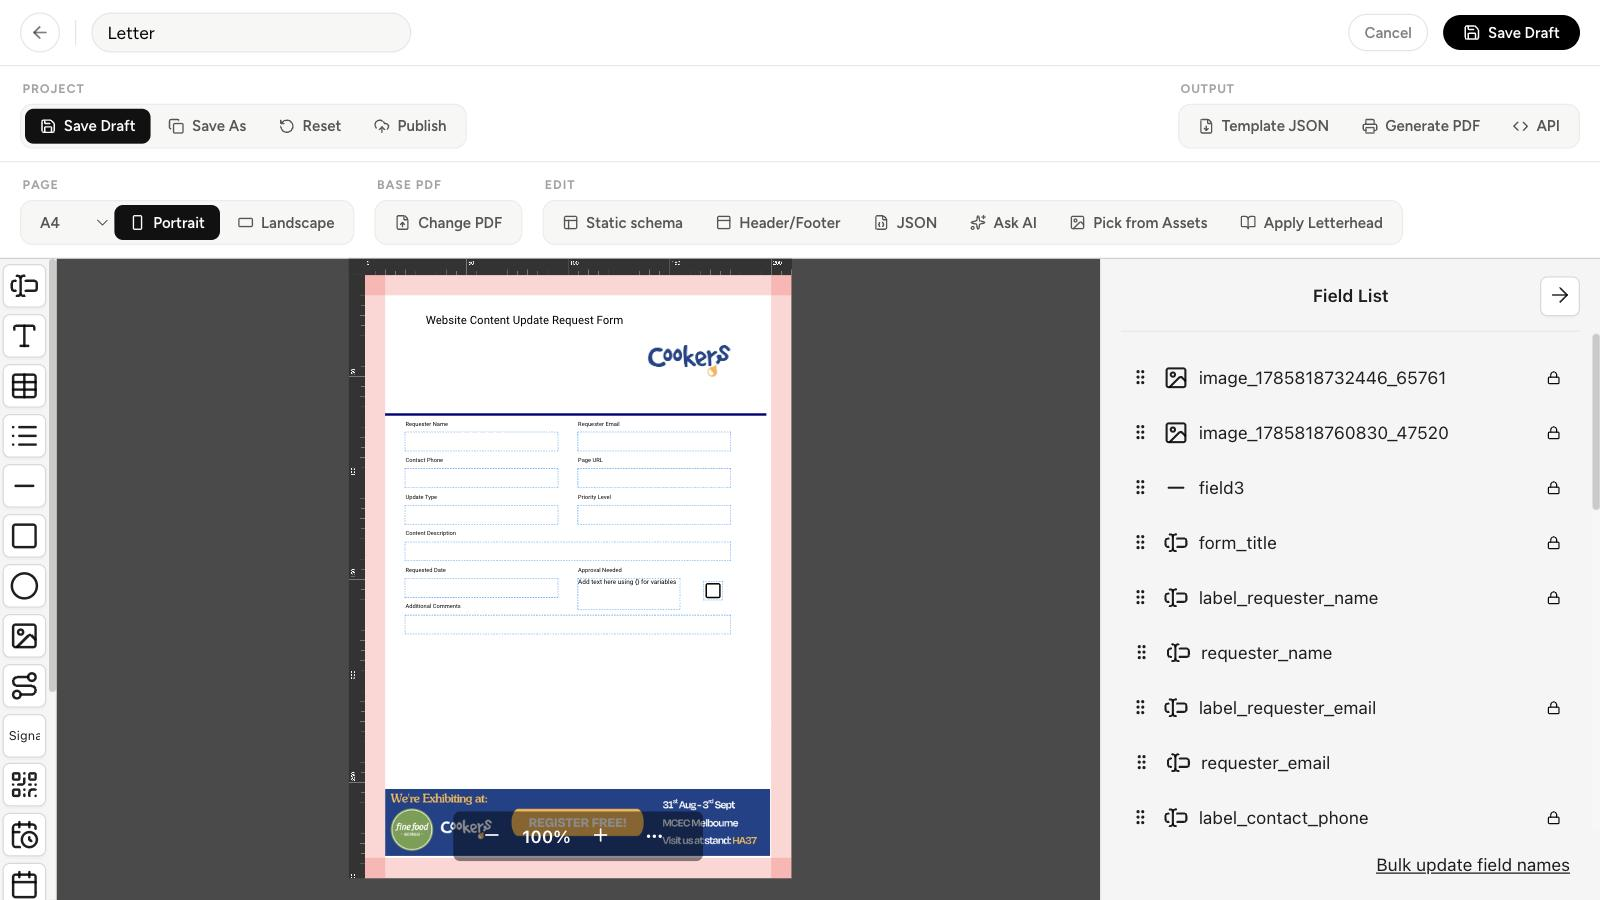
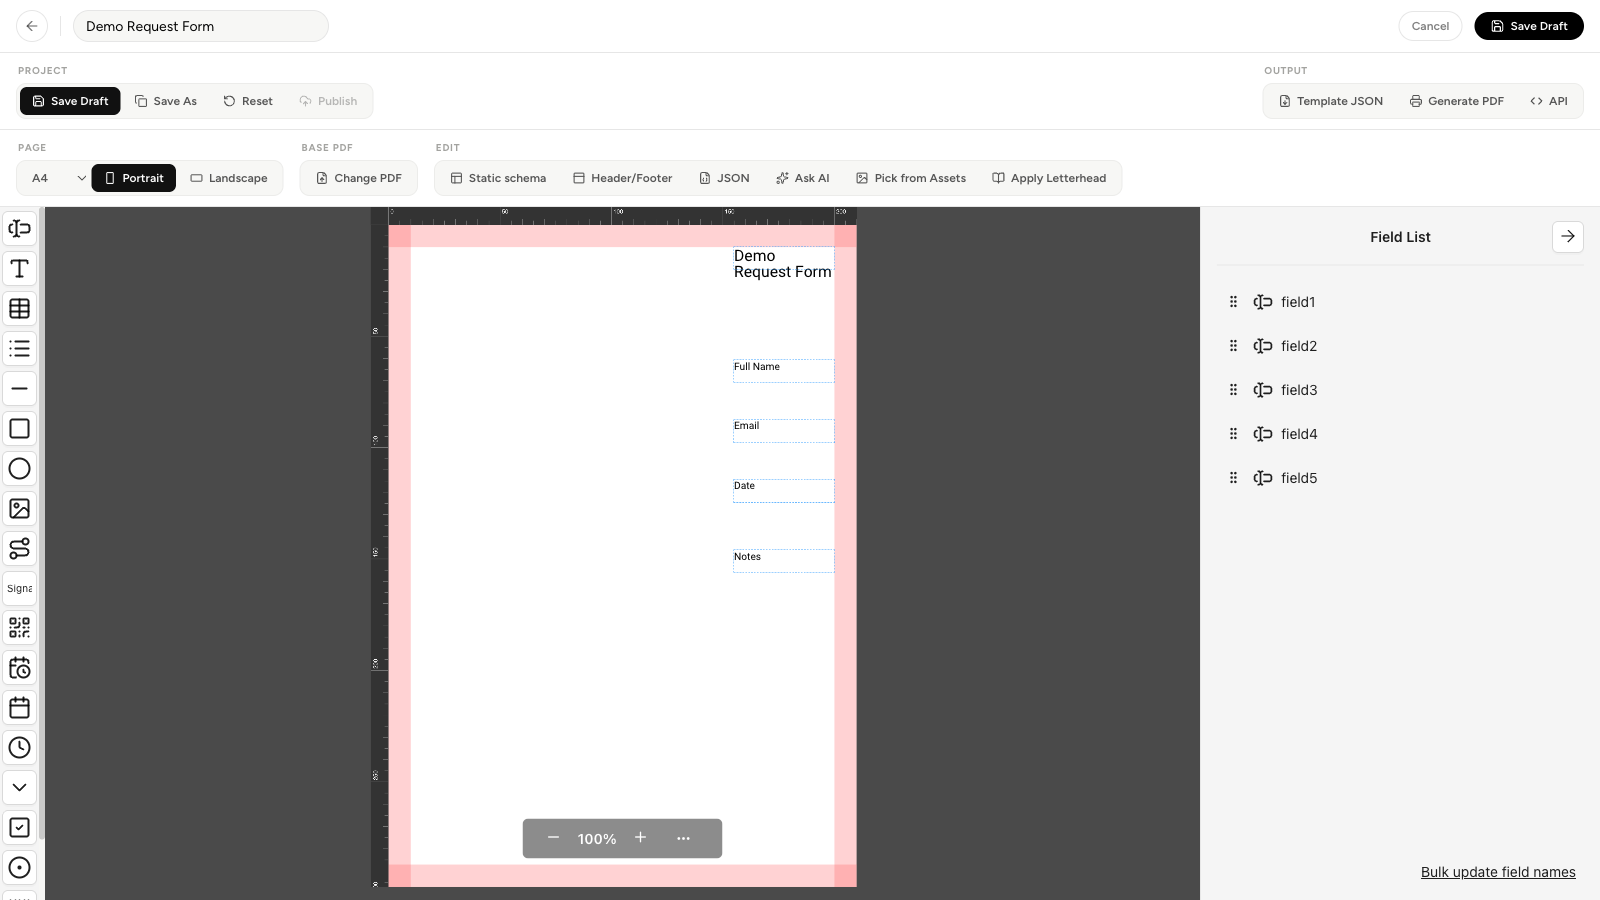
fix(client): re-capture landing screenshots and fix crop/scroll/link/error issues
Replace two landing screenshots that contained real customer branding and a
real signer's name/email with clean, generic placeholder content (a new
"Demo Request Form" template and a "Jane Doe" signed submission). Also fix
six review findings on the Landing/Waitlist pages: a non-functional
object-fit crop that made the how-it-works screenshotPosition values
inert, missing scroll-margin on anchor-linked sections, a missing link to
the new /waitlist page, stale error messages surviving fresh validation
errors, raw HTTP error strings leaking to visitors, and missing ARIA
live-region roles on the waitlist form's status/error messages.

diff --git a/client/src/pages/Landing.tsx b/client/src/pages/Landing.tsx
@@ -18,21 +18,21 @@ const steps = [
     title: 'Design',
     description: 'Build a template with the drag-and-drop editor — text, tables, letterheads, dividers.',
     screenshot: '/landing/designer-canvas.png',
-    screenshotPosition: '20% 15%',
+    screenshotPosition: '30% 37%',
   },
   {
     icon: PenLine,
     title: 'Fill & sign',
     description: 'Share it as a live form. Fill it in, then click to place a signature before sending.',
     screenshot: '/landing/signed-form.png',
-    screenshotPosition: '60% 15%',
+    screenshotPosition: '24% 19%',
   },
   {
     icon: ListChecks,
     title: 'Track',
     description: 'Every submission lands in one place — draft, submitted, or completed.',
     screenshot: '/landing/dashboard.png',
-    screenshotPosition: 'center 75%',
+    screenshotPosition: '0% 0%',
   },
 ];
 
@@ -201,7 +201,7 @@ export default function Landing() {
       </section>
 
       {/* How it works — numbered flow with screenshot crops */}
-      <section id="how-it-works" className="px-6 sm:px-10 pb-20 sm:pb-24 max-w-7xl mx-auto">
+      <section id="how-it-works" className="px-6 sm:px-10 pb-20 sm:pb-24 max-w-7xl mx-auto scroll-mt-24">
         <div className="grid sm:grid-cols-3 gap-8 relative">
           <div
             aria-hidden
@@ -222,22 +222,23 @@ export default function Landing() {
               </p>
               <div
                 className="w-full max-w-[240px] h-36 rounded-lg overflow-hidden mt-1"
-                style={{ border: '1px solid var(--nx-hairline)' }}
-              >
-                <img
-                  src={step.screenshot}
-                  alt={`${step.title} screenshot`}
-                  className="h-full w-full object-cover"
-                  style={{ objectPosition: step.screenshotPosition }}
-                />
-              </div>
+                style={{
+                  border: '1px solid var(--nx-hairline)',
+                  backgroundImage: `url(${step.screenshot})`,
+                  backgroundSize: '640px 360px',
+                  backgroundPosition: step.screenshotPosition,
+                  backgroundRepeat: 'no-repeat',
+                }}
+                role="img"
+                aria-label={`${step.title} screenshot`}
+              />
             </div>
           ))}
         </div>
       </section>
 
       {/* Features */}
-      <section id="features" className="px-6 sm:px-10 pb-20 sm:pb-24 max-w-7xl mx-auto">
+      <section id="features" className="px-6 sm:px-10 pb-20 sm:pb-24 max-w-7xl mx-auto scroll-mt-24">
         <div className="mb-10 text-center">
           <h2 className="text-3xl sm:text-4xl font-bold tracking-tight">Everything the workflow needs</h2>
           <p className="mt-3 text-base sm:text-lg max-w-xl mx-auto" style={{ color: 'var(--nx-ink-secondary)' }}>
@@ -268,7 +269,7 @@ export default function Landing() {
       </section>
 
       {/* FAQ */}
-      <section id="faq" className="px-6 sm:px-10 pb-20 sm:pb-24 max-w-3xl mx-auto">
+      <section id="faq" className="px-6 sm:px-10 pb-20 sm:pb-24 max-w-3xl mx-auto scroll-mt-24">
         <h2 className="text-3xl sm:text-4xl font-bold tracking-tight text-center mb-10">
           Frequently asked questions
         </h2>
@@ -322,6 +323,9 @@ export default function Landing() {
           </button>
           <button onClick={() => navigate('/templates')} className="transition-colors hover:text-[var(--nx-ink-secondary)]">
             Templates
+          </button>
+          <button onClick={() => navigate('/waitlist')} className="transition-colors hover:text-[var(--nx-ink-secondary)]">
+            Join the waitlist
           </button>
         </div>
       </footer>

diff --git a/client/src/pages/Waitlist.tsx b/client/src/pages/Waitlist.tsx
@@ -19,6 +19,8 @@ export default function Waitlist() {
 
   const handleSubmit = async (e: FormEvent) => {
     e.preventDefault();
+    setSubmitError(null);
+    setValidationError(null);
 
     if (name.trim().length === 0) {
       setValidationError('Please enter your name.');
@@ -28,15 +30,19 @@ export default function Waitlist() {
       setValidationError('Please enter a valid email address.');
       return;
     }
-    setValidationError(null);
-    setSubmitError(null);
     setStatus('submitting');
 
     try {
       const result = await api.submitWaitlist(name.trim(), email.trim());
       setStatus(result.alreadyOnList ? 'duplicate' : 'success');
     } catch (err) {
-      setSubmitError((err as Error).message);
+      const raw = (err as Error).message;
+      console.error('Waitlist signup failed:', raw);
+      setSubmitError(
+        raw.startsWith('429')
+          ? "You're submitting a bit fast — please wait a few minutes and try again."
+          : 'Something went wrong — please try again in a few minutes.'
+      );
       setStatus('error');
     }
   };
@@ -75,7 +81,7 @@ export default function Waitlist() {
 
         <div className="mt-10 w-full max-w-sm">
           {status === 'success' || status === 'duplicate' ? (
-            <p className="text-base font-semibold" style={{ color: 'var(--nx-ink)' }}>
+            <p className="text-base font-semibold" role="status" style={{ color: 'var(--nx-ink)' }}>
               {status === 'success'
                 ? "You're on the list — we'll be in touch."
                 : "You're already on the list!"}
@@ -102,6 +108,7 @@ export default function Waitlist() {
               {validationError && (
                 <div
                   className="flex items-center gap-2 rounded-[var(--nx-radius-sm)] p-3 text-sm"
+                  role="alert"
                   style={{ background: 'var(--nx-destructive-tint)', color: 'var(--nx-destructive)' }}
                 >
                   <AlertCircle className="h-4 w-4 shrink-0" />
@@ -111,6 +118,7 @@ export default function Waitlist() {
               {status === 'error' && submitError && (
                 <div
                   className="flex items-center gap-2 rounded-[var(--nx-radius-sm)] p-3 text-sm"
+                  role="alert"
                   style={{ background: 'var(--nx-destructive-tint)', color: 'var(--nx-destructive)' }}
                 >
                   <AlertCircle className="h-4 w-4 shrink-0" />
